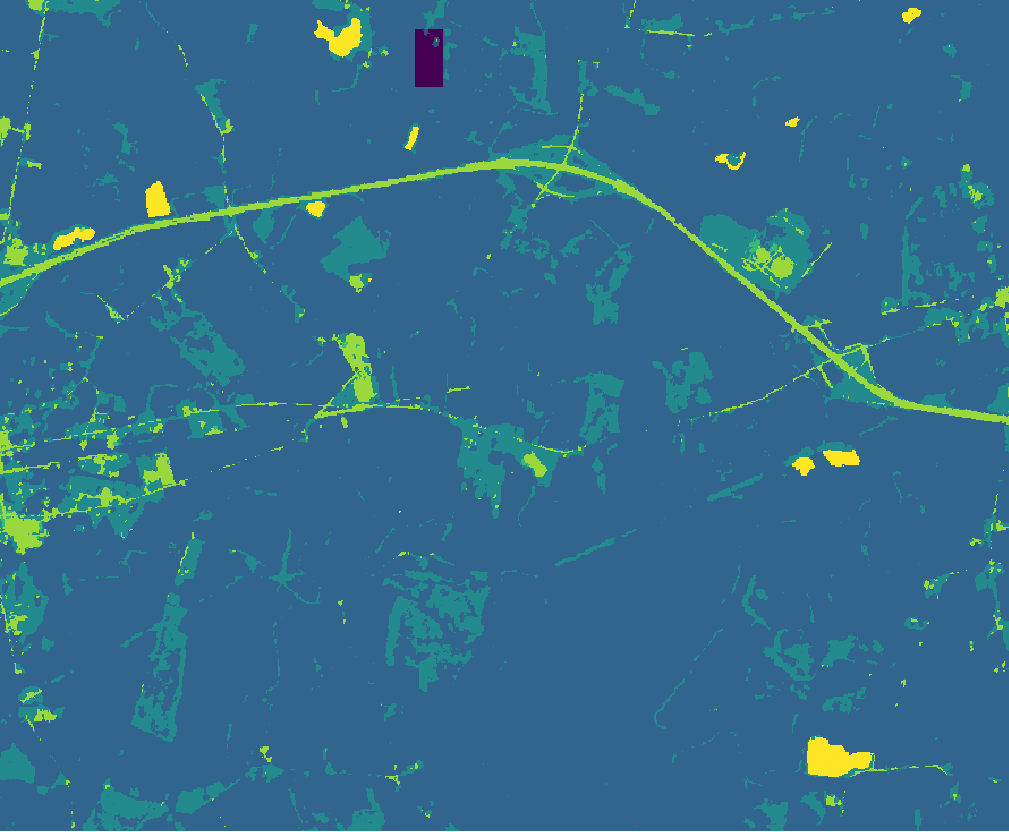
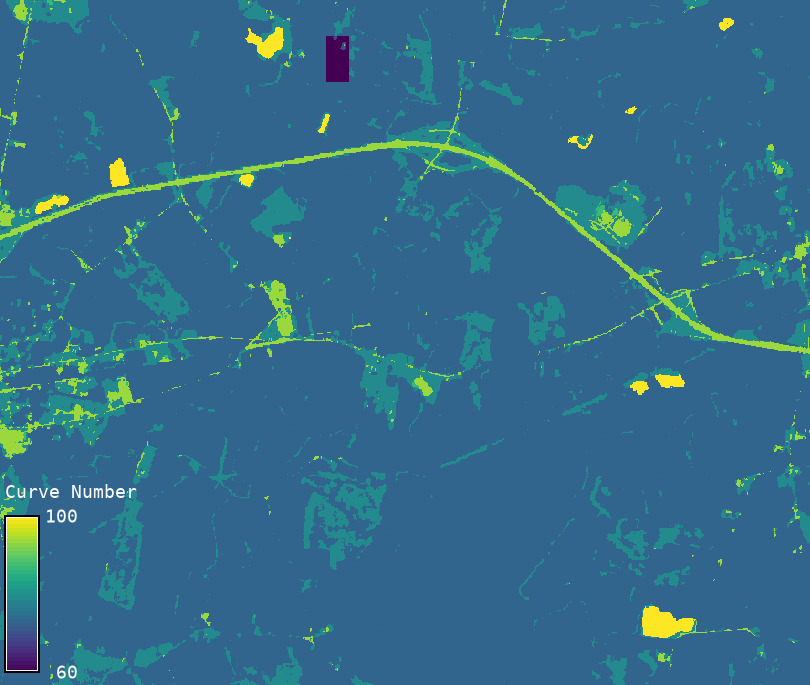
Fixed the formatting issues, added legend to the map, and added the source to the curve number values

diff --git a/src/raster/r.curvenumber/r.curvenumber.html b/src/raster/r.curvenumber/r.curvenumber.html
@@ -14,8 +14,13 @@
 </ul>
 <p>No other values are allowed.</p>
 
-<h2>DISCLAIMER</h2>
-<p>The curve numbers produced by <em>r.curvenumber</em> are preliminary estimates. Users should verify and, if necessary, adjust these values before using them in detailed hydrologic analyses or engineering designs.</p>
+<p>
+  The curve numbers used in <em>r.curvenumber</em> are based on values published by the 
+  United States Department of Agriculture, Natural Resources Conservation Service (2004). 
+  While these values serve as a widely accepted reference, users should 
+  assess and, if needed, modify them to suit the specific requirements, 
+  assumptions, and spatial scale of their hydrologic studies or engineering designs.
+</p>
 
 <h2>EXAMPLES</h2>
 <pre><code># Example 1: NLCD lookup (built-in)

diff --git a/src/raster/r.curvenumber/r.curvenumber.py b/src/raster/r.curvenumber/r.curvenumber.py
@@ -204,7 +204,7 @@ def load_custom(path):
             for row in csv.DictReader(f):
                 lut[(row["lc"], row["hsg"])] = row["cn"]
     except Exception as e:
-        fatal(_("Unable to read lookup '{path}': {e}").format(path=path, e=e))
+        fatal(_(f"Unable to read lookup '{path}': {e}").format(path=path, e=e))
     if not lut:
         fatal(_("Custom lookup table is empty or malformed"))
     return lut

diff --git a/src/raster/r.curvenumber/r.curvenumber.md b/src/raster/r.curvenumber/r.curvenumber.md
@@ -26,10 +26,11 @@ HSG raster **must** contain only the following values:
 
 No other values are allowed.
 
-
-The curve numbers produced by *r.curvenumber* are preliminary estimates.  
-Users should verify and, if necessary, adjust these values before using them 
-in detailed hydrologic analyses or engineering designs.
+The curve numbers used in *r.curvenumber* are based on values published by the 
+United States Department of Agriculture, Natural Resources Conservation Service (2004). 
+While these values serve as a widely accepted reference, users should 
+assess and, if needed, modify them to suit the specific requirements, 
+assumptions, and spatial scale of their hydrologic studies or engineering designs
 
 ## EXAMPLES
 
